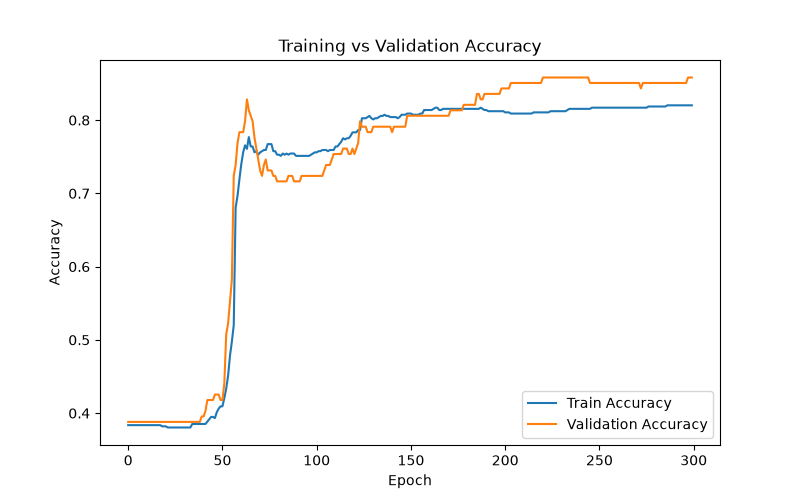
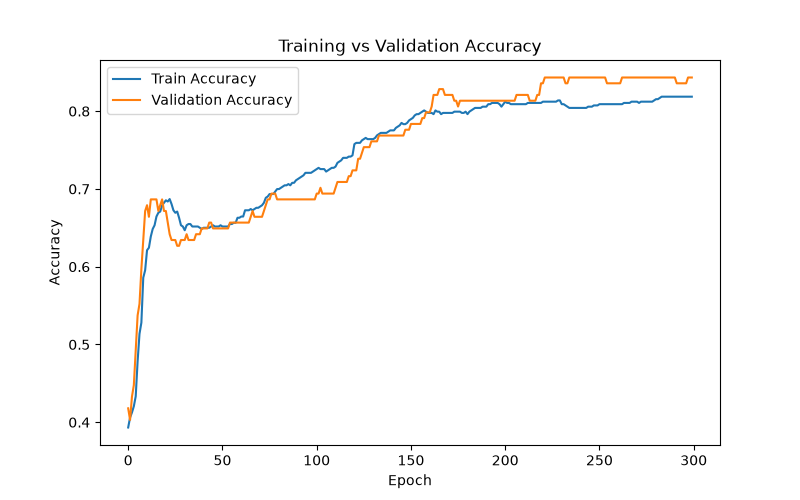
complete part 8: predictions on 5 unseen samples

diff --git a/model.py b/model.py
@@ -154,3 +154,26 @@ print(f"Test Recall:    {rec:.4f}")
 print(f"Test F1-score:  {f1:.4f}")
 print("\nConfusion Matrix:")
 print(cm)
+
+# --- Part 8: Predictions on unseen samples ---
+new_passengers = pd.DataFrame({
+    "Pclass": [1, 3, 2, 3, 1],
+    "Sex": [1, 0, 1, 0, 0],
+    "Age": [28, 22, 4, 35, 60],
+    "SibSp": [0, 0, 1, 0, 1],
+    "Parch": [0, 0, 1, 0, 0],
+    "Fare": [100, 7.5, 30, 8, 90],
+    "Embarked_Q": [0, 0, 0, 1, 0],
+    "Embarked_S": [1, 1, 1, 0, 1],
+})
+
+new_passengers[numeric_cols] = scaler.transform(new_passengers[numeric_cols])
+new_passengers_t = torch.tensor(new_passengers.values, dtype=torch.float32)
+
+model.eval()
+with torch.no_grad():
+    new_probs = model(new_passengers_t)
+    new_preds = (new_probs >= 0.5).float()
+
+for i in range(len(new_passengers)):
+    print(f"Passenger {i+1}: probability={new_probs[i].item():.4f}, prediction={'Survived' if new_preds[i].item()==1 else 'Did Not Survive'}")

diff --git a/answers.md b/answers.md
@@ -193,3 +193,29 @@ performance on exactly the failure mode identified as costly.
 did not improve results over baseline. This is consistent with the Part 6
 finding that the baseline model was not overfitting — Dropout is specifically
 an overfitting mitigation technique, so its limited effect here
+
+## Part 8: Predictions on Unseen Samples
+
+Constructed 5 hypothetical passengers spanning a range of profiles, scaled using
+the training-set-derived scaler (never refit on these 5 rows, consistent with
+avoiding data leakage at inference time).
+
+| Passenger | Profile                                          | Probability | Prediction        |
+|-----------|---------------------------------------------------|--------------|--------------------|
+| 1         | 1st class, female, 28, alone, high fare            | 0.9276       | Survived           |
+| 2         | 3rd class, male, 22, alone, low fare               | 0.1096       | Did Not Survive    |
+| 3         | 2nd class, female, 4, with family, moderate fare   | 0.9046       | Survived           |
+| 4         | 3rd class, male, 35, alone, low fare, Queenstown   | 0.1336       | Did Not Survive    |
+| 5         | 1st class, male, 60, with spouse, high fare        | 0.3932       | Did Not Survive    |
+
+**Discussion:** Passengers 1-4 were predicted with high confidence (all
+probabilities either >90% or <14%), consistent with EDA findings that class,
+sex, and family accompaniment are strong survival predictors. Passenger 5 is
+the most interesting case: unlike the other four, its probability (39.3%) sits
+much closer to the 0.5 decision boundary. This passenger has competing signals
+— high class and spousal accompaniment favor survival, while older age and male
+sex work against it — and the model's less-confident, near-boundary output
+suggests it is weighing multiple features together rather than relying on a
+single dominant shortcut rule (e.g., "if male, always predict low"). This is a
+more convincing sign of genuine multi-feature learning than the confident
+predictions on the other four, more clear-cut passengers.
